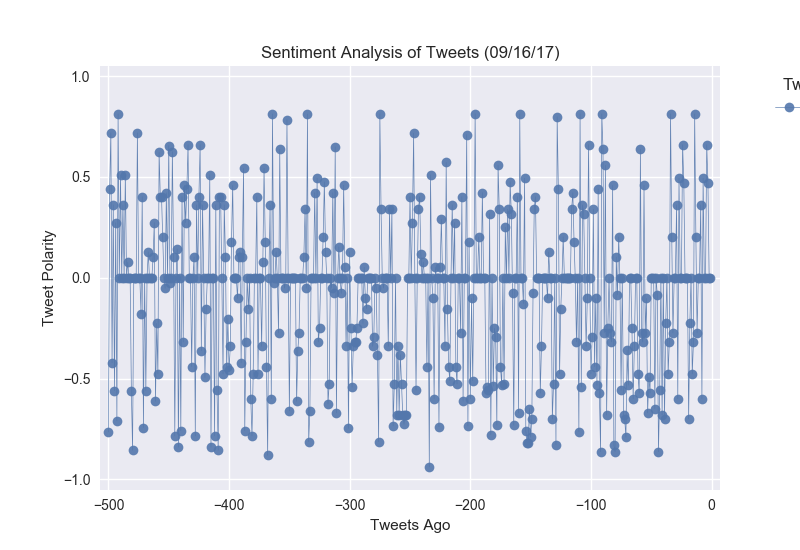
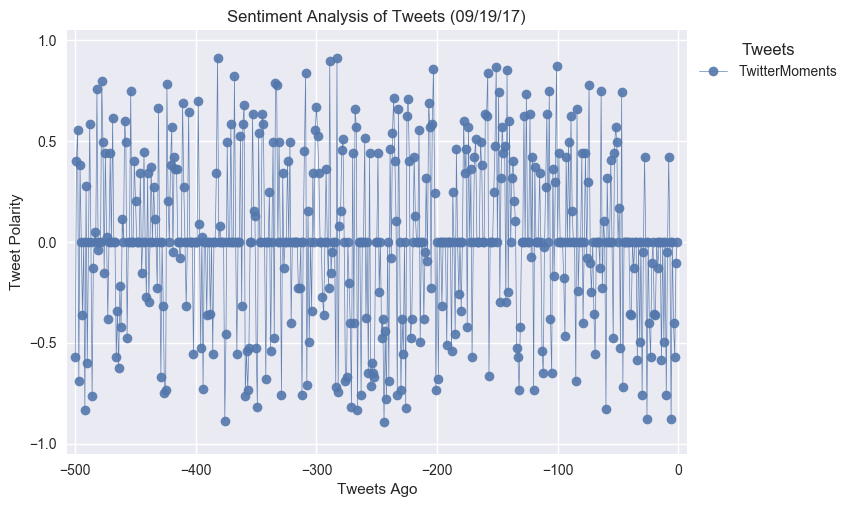
Added tk, fixed tight layout

diff --git a/PlotBot.py b/PlotBot.py
@@ -7,6 +7,7 @@ import random
 import pandas as pandas
 import matplotlib.pyplot as plt
 import seaborn as sns
+import sys
 #from textblob import TextBlob (figure this out)
 import numpy as np
 
@@ -59,15 +60,16 @@ def tweet_analyzer():
     ax.plot(np.arange(-500,0), compound, '-o', alpha=.9, color="#5377AC", linewidth=0.5, label=target_user)
 
     # Format and print the plot
-    plt.legend(title="Tweets", loc='upper right', bbox_to_anchor=(1.22, 1))
+    plt.legend(title="Tweets", bbox_to_anchor=(1, 1), loc='upper left')
     plt.title("Sentiment Analysis of Tweets (" + datetime.datetime.now().strftime("%x") + ")")
     plt.xlabel("Tweets Ago")
     plt.ylabel("Tweet Polarity")
     plt.yticks(np.arange(-1,1.5,.5))
+    #plt.tight_layout()
 
     plt.xlim(-507,7)
     plt.ylim(-1.05,1.05)
-    plt.savefig("Resources/SentimentAnalysis.png")
+    plt.savefig("Resources/SentimentAnalysis.png", bbox_inches="tight")
 
     print("Saved plot")
     
@@ -103,7 +105,10 @@ while(True):
     new_mentions = api.search(q=me, since_id=check[0]["id"], result_type="recent")
     
 
-    if len(new_mentions) > 0:
+    if len(new_mentions["statuses"]) == 0:
+    	print("No new mentions")
+
+    else:
     	print("New mention(s)")
     	
 	    # Loop through new mentions, running function if not previously analyzed
@@ -115,15 +120,13 @@ while(True):
                 print("Requesting user: " + requesting_user)
                 print("Ready to analyze")
                 tweet_analyzer()
-
-	#else:
-	#	print("No new mentions")
-	#	continue
+            else:
+            	print("Account already analyzed")
 
     # Wait 5 minutes before checking for new mentions
     time.sleep(300)
 
 
-
-### Got error importing Matplotlib on Heroku
-### Figure out the Else indentation error just above time.sleep
+### Fix legend getting cut off (check if it worked)
+### Check for duplicate ignorance
+### Got error importing tkinter on Heroku
